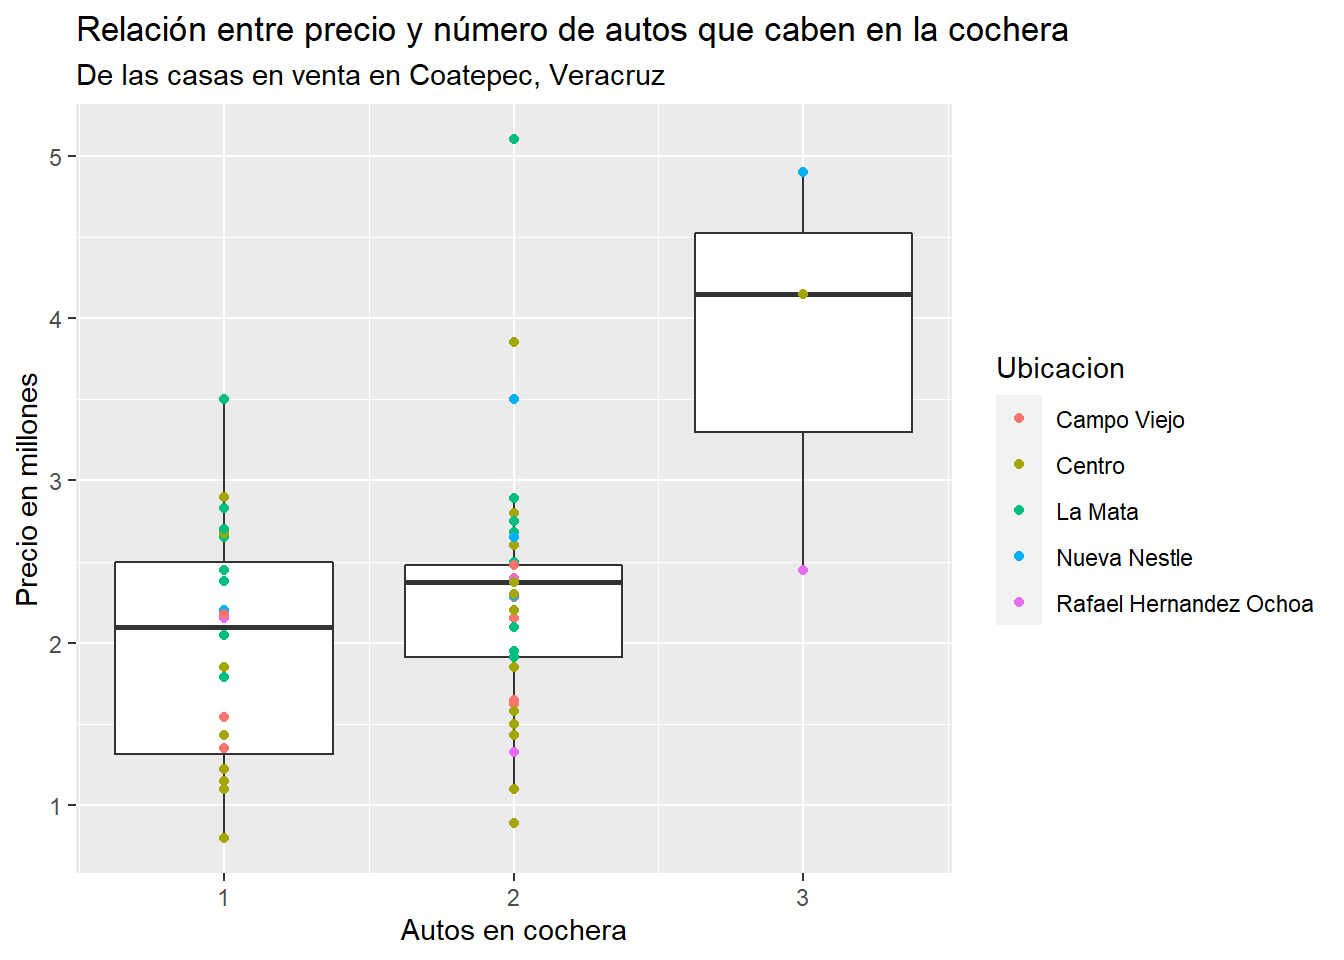
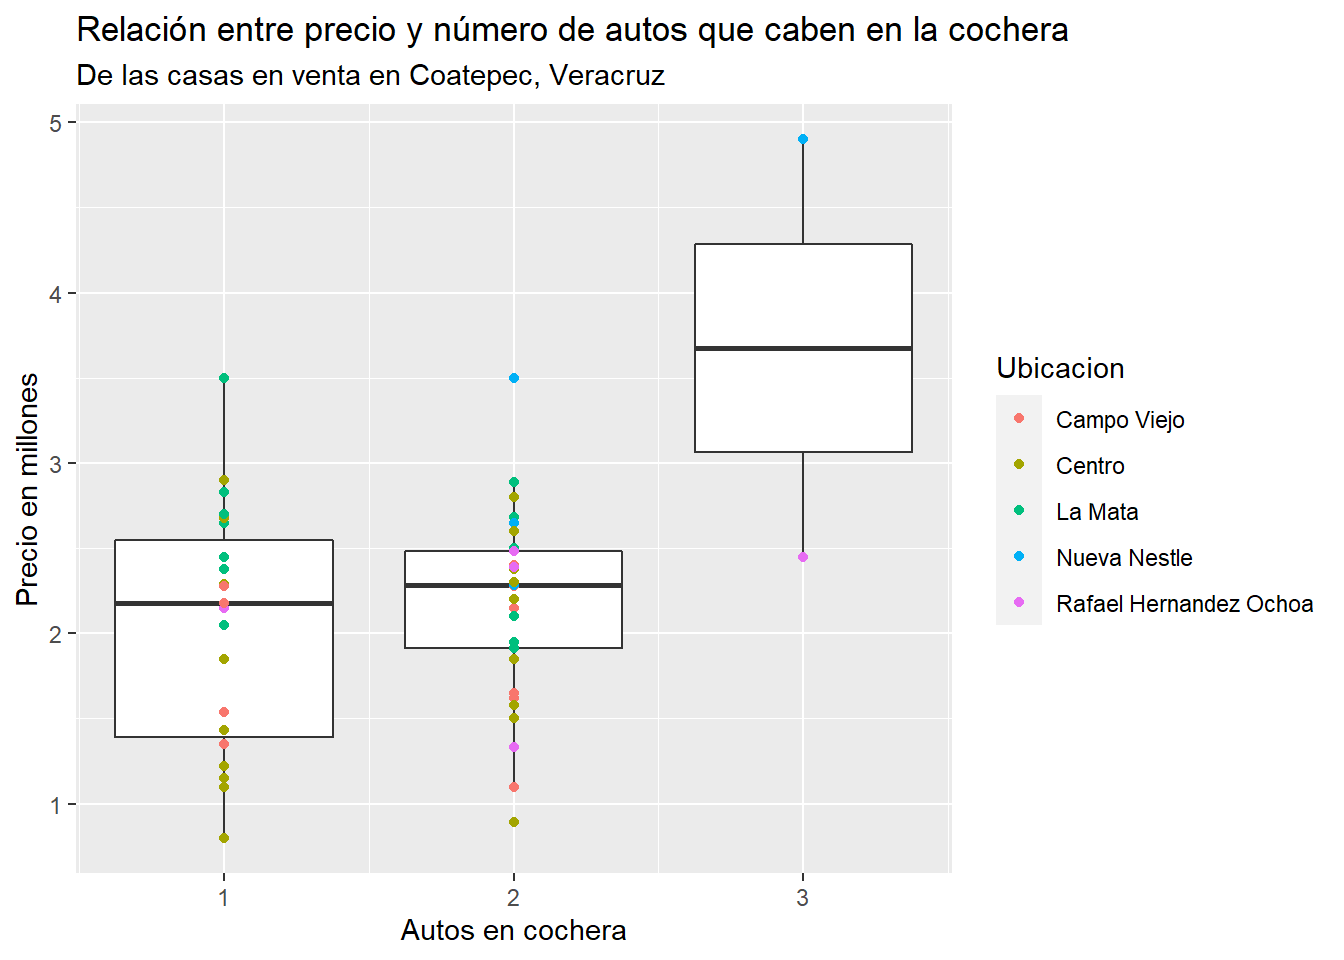
Añadiendo aplicación web (R shiny)

diff --git a/content/blog/2022-07-15-qu-determina-el-precio-de-venta-de-las-casas-en-coatepec-veracruz/index.html b/content/blog/2022-07-15-qu-determina-el-precio-de-venta-de-las-casas-en-coatepec-veracruz/index.html
@@ -28,25 +28,27 @@ tags:
   - modelo
   - regresión
   - lineal
-  - econometría
+  - shiny
   - econometrics
   - realestate
 meta_img: images/image.png
 description: Description for the page
+runtime: shiny
+output: blogdown::html_document
 ---
 
 
 
-<div id="pregunta" class="section level2">
+<div id="section-pregunta" class="section level2">
 <h2>Pregunta</h2>
 <p>Durante la última década, la ciudad de Coatepec ha experimentado un crecimiento acelerado. Frecuentemente, los ciudadanos encontramos nuevos fraccionamientos en el municipio y un aumento agresivo en los precios de los bienes inmuebles. Por otra parte, lo créditos hipotecarios otorgados a los trabajadores por las instituciones públicas de seguridad social no siempre son suficientes para adquirir un hogar en dicho mercado.</p>
 <p>Esto me llevó a plantearme la siguiente pregunta, <strong>¿qué factores determinan el precio de una casa en el municipio de Coatepec, Veracruz?</strong></p>
 </div>
-<div id="importación-limpieza-y-organización-de-datos" class="section level2">
+<div id="section-importación-limpieza-y-organización-de-datos" class="section level2">
 <h2>Importación, limpieza y organización de datos</h2>
 <p>Dado que no encontré una base de datos con la información de las ventas realizadas en el municipio, realicé este análisis con los datos de los inmuebles que actualmente se encuentran en el mercado. Para este fin, miné (extraje) información del sitio web <a href="https://www.vivanuncios.com.mx/s-casas-en-venta/coatepec-ver/page-1/v1c1293l12120p2?pr=0,&amp;ba=10&amp;be=1&amp;pa=grage&amp;si=105,">Viva Anuncios</a> usando el paquete Rvest y limpié los datos. Para reducir el enfoque del análisis consideré aquellas ofertas de <strong>casas en el municipio de Coatepec, Veracruz que tuvieran información completa</strong> (recámaras, baños, cochera, superficie del terreno y ubicación) que se encontraran en las 6 colonias o fraccionamientos más frecuentes.</p>
 <p>El resultado del proceso fue un conjunto de 68 casas con diferentes características.</p>
-<pre class="r"><code>map_df(1:7, function(i) {
+<pre class="r"><code>map_df(1:19, function(i) {
   
   # Progress indicator
   print(i)
@@ -58,44 +60,23 @@ description: Description for the page
   recamaras &lt;- read_html(page) %&gt;% html_nodes(&quot;.re-bedroom&quot;) %&gt;% html_text() %&gt;%.[-1]
   banos &lt;- read_html(page) %&gt;% html_nodes(&quot;.re-bathroom&quot;) %&gt;% html_text() 
   autos &lt;- read_html(page) %&gt;% html_nodes(&quot;.car-parking&quot;) %&gt;% html_text() 
-  superficie &lt;- read_html(page) %&gt;% html_nodes(&quot;.surface-area&quot;) %&gt;% html_text() %&gt;% .[-1]
-  ubi &lt;- read_html(page) %&gt;% html_nodes(&quot;#tileRedesign b&quot;) %&gt;% html_text() %&gt;% .[-1] 
+  superficie &lt;- read_html(page) %&gt;% html_nodes(&quot;.chiplets-inline-block:nth-child(8)&quot;) %&gt;% html_text() 
+  ubi &lt;- read_html(page) %&gt;% html_nodes(&quot;#srpContent b&quot;) %&gt;% html_text() %&gt;% .[-1] 
   desc &lt;- read_html(page) %&gt;% html_nodes(&quot;.tile-title-text&quot;) %&gt;% html_text() %&gt;% .[-1] 
   
   #binding resulting dataframes
   data.frame(precio, recamaras, banos, autos, superficie, ubi, desc)
 
   #Assigning to an object
-}) -&gt; casas_1</code></pre>
+}) -&gt; casas</code></pre>
 <pre><code>## [1] 1
 ## [1] 2
 ## [1] 3
 ## [1] 4
 ## [1] 5
 ## [1] 6
-## [1] 7</code></pre>
-<pre class="r"><code>map_df(8:19, function(i) {
-  
-  # Progress indicator
-  print(i)
-  
-  #String for consecutive pages
-  page = paste0(&quot;https://www.vivanuncios.com.mx/s-casas-en-venta/coatepec-ver/page-&quot;, i, &quot;/v1c1293l12120p&quot;, i,&quot;?pr=0,&amp;ba=10&amp;be=1&amp;pa=grage&amp;si=105,&quot;)
-  
-  precio &lt;- read_html(page) %&gt;% html_nodes(&quot;.ad-price&quot;) %&gt;% html_text() %&gt;%.[-1]
-  recamaras &lt;- read_html(page) %&gt;% html_nodes(&quot;.re-bedroom&quot;) %&gt;% html_text() %&gt;%.[-1]
-  banos &lt;- read_html(page) %&gt;% html_nodes(&quot;.re-bathroom&quot;) %&gt;% html_text() 
-  autos &lt;- read_html(page) %&gt;% html_nodes(&quot;.car-parking&quot;) %&gt;% html_text() 
-  superficie &lt;- read_html(page) %&gt;% html_nodes(&quot;.surface-areaV2&quot;) %&gt;% html_text()
-  ubi &lt;- read_html(page) %&gt;% html_nodes(&quot;#suggestedAds b&quot;) %&gt;% html_text()
-  desc &lt;- read_html(page) %&gt;% html_nodes(&quot;.tile-title-text&quot;) %&gt;% html_text() %&gt;% .[-1] 
-  
-  #binding resulting dataframes
-  data.frame(precio, recamaras, banos, autos, superficie, ubi, desc)
-  
-  #Assigning to an object
-}) -&gt; casas_2</code></pre>
-<pre><code>## [1] 8
+## [1] 7
+## [1] 8
 ## [1] 9
 ## [1] 10
 ## [1] 11
@@ -107,10 +88,7 @@ description: Description for the page
 ## [1] 17
 ## [1] 18
 ## [1] 19</code></pre>
-<pre class="r"><code>#binding both data frames together
-casas &lt;- rbind(casas_1, casas_2) 
-
-#Assigning columns names
+<pre class="r"><code>#Assigning columns names
 colnames(casas) &lt;- c(&quot;Precio&quot;, &quot;Recamaras&quot;, &quot;Banos&quot;, &quot;Cochera&quot;, &quot;Superficie&quot;, &quot;Ubicacion&quot;, &quot;Descripcion&quot;)
 
 #Wrangling and cleaning the data
@@ -137,10 +115,10 @@ casas &lt;- casas %&gt;%
          Superficie = as.numeric(Superficie)) %&gt;%
   filter(Superficie &lt; 500)</code></pre>
 </div>
-<div id="análisis-de-los-datos" class="section level2">
+<div id="section-análisis-de-los-datos" class="section level2">
 <h2>Análisis de los datos</h2>
 <p>Las variables obtenidas del sitio web minado son <strong>precio, número de recámaras, número de baños, espacios para auto en la cochera, superficie del terreno y ubicación</strong>. En los siguientes párrafos exploraremos como se comportan estas variables y como se relacionan entre sí. Finalmente, construiré un modelo de regresión lineal múltiple que sirva para predecir o establecer el precio de venta de una casa en Coatepec, Veracruz.</p>
-<div id="precio-y-número-de-recámaras" class="section level3">
+<div id="section-precio-y-número-de-recámaras" class="section level3">
 <h3>Precio y número de recámaras</h3>
 <p>Como se muestra en la primera figura, el precio de las casas incrementa cuando aumenta el número de recámaras que éstas tienen. También podemos notar que el número de recámaras más frecuente en el municipio es 3.</p>
 <pre class="r"><code>#Visualizing relation between price and number of bedrooms
@@ -155,7 +133,7 @@ casas %&gt;% ggplot(aes(Recamaras, Precio, group = Recamaras)) +
 <p><img src="{{< blogdown/postref >}}index_files/figure-html/price-bedrooms-1.png" width="672" /></p>
 <p>Esto nos muestra una clara correlación positiva entre la variable precio y la variable recámaras.</p>
 </div>
-<div id="precio-y-número-de-baños" class="section level3">
+<div id="section-precio-y-número-de-baños" class="section level3">
 <h3>Precio y número de baños</h3>
 <p>La segunda figura nos muestra que también el número de baños suele incrementar el precio de una casa en venta y que el número de baños más frecuente es 3.</p>
 <pre class="r"><code>#Visualizing relation between price and number of bathrooms
@@ -169,7 +147,7 @@ casas %&gt;% ggplot(aes(Banos, Precio, group = Banos)) +
 <p><img src="{{< blogdown/postref >}}index_files/figure-html/price-bathrooms-1.png" width="672" />
 Esto nos muestra una clara correlación positiva entre la variable precio y la variable baños.</p>
 </div>
-<div id="precio-y-espacios-en-la-cochera" class="section level3">
+<div id="section-precio-y-espacios-en-la-cochera" class="section level3">
 <h3>Precio y espacios en la cochera</h3>
 <p>Al parecer, como se ve en la siguiente figura, el número de espacios en la cochera no impacta significativamente en el precio de las casas. Probablemente sea un factor que los compradores valoren poco o que los vendedores subestimen.</p>
 <pre class="r"><code>#Visualizing relation between price and number of cars space in garage
@@ -183,7 +161,7 @@ casas %&gt;% ggplot(aes(Cochera, Precio, group = Cochera)) +
 <p><img src="{{< blogdown/postref >}}index_files/figure-html/price-garage-1.png" width="672" /></p>
 <p>Esto nos muestra que aunque hay una correlación positiva entre las variables, esta es muy débil.</p>
 </div>
-<div id="precio-y-superficie-del-terreno." class="section level3">
+<div id="section-precio-y-superficie-del-terreno." class="section level3">
 <h3>Precio y superficie del terreno.</h3>
 <p>Según nos muestra la siguiente figura, la superficie del terreno en que la casa está construida impacta positivamente en su precio. Es decir, más terreno = más dinero.</p>
 <pre class="r"><code>#Visualizing relation between price and land area
@@ -199,7 +177,7 @@ casas %&gt;%
 <p><img src="{{< blogdown/postref >}}index_files/figure-html/price-land-1.png" width="672" /></p>
 <p>Esto nos muestra una correlación positiva, aunque no muy fuerte.</p>
 </div>
-<div id="precio-y-ubicación" class="section level3">
+<div id="section-precio-y-ubicación" class="section level3">
 <h3>Precio y ubicación</h3>
 <p>¿Qué tanto importa dónde se ubica la casa? Location, location, location…</p>
 <p>En este caso, importa. Aunque no son diferencias abismales, el gráfico de caja muestra como varían los precios entre las diferentes colonias.</p>
@@ -214,7 +192,7 @@ casas %&gt;% ggplot(aes(Ubicacion, Precio, group = Ubicacion)) +
 <p><img src="{{< blogdown/postref >}}index_files/figure-html/unnamed-chunk-1-1.png" width="672" />
 Esto sugiere una correlación entre precio y ubicación. Como la ubicación es una variable categórica, haremos un truquillo más adelante para poder integrarla en el modelo.</p>
 </div>
-<div id="precio-y-todo-lo-demás" class="section level3">
+<div id="section-precio-y-todo-lo-demás" class="section level3">
 <h3>Precio y todo lo demás</h3>
 <p>En esta figura podemos ver como se relaciona el precio (eje Y) con el número de recámaras (tamaño del punto), la ubicación (color del punto) y la superficie del terreno (eje X). Parece ser que el patrón más claro es que mientras más grande es el punto, más arriba está.</p>
 <pre class="r"><code>casas %&gt;%
@@ -227,7 +205,7 @@ Esto sugiere una correlación entre precio y ubicación. Como la ubicación es u
 <p><img src="{{< blogdown/postref >}}index_files/figure-html/unnamed-chunk-2-1.png" width="672" />
 Esto sugiere que la variable número de recámaras es la que está más relacionada con el precio y quizás la qu más influya en este ¿será cierto?</p>
 </div>
-<div id="correlación-entre-variables" class="section level3">
+<div id="section-correlación-entre-variables" class="section level3">
 <h3>Correlación entre variables</h3>
 <p>Esta figura nos muestra la correlación entre las variables. Como ya lo sospechábamos el número de recámaras es la variable más relacionada al precio, seguida del número de baños y la superficie en tercer lugar.</p>
 <pre class="r"><code>#Variable Dummy para Ubicación del 0 al 5 en orden de precio promedio
@@ -238,9 +216,9 @@ casas %&gt;%
 <pre><code>## # A tibble: 5 x 2
 ##   Ubicacion              `Precio promedio`
 ##   &lt;chr&gt;                              &lt;dbl&gt;
-## 1 Campo Viejo                         2.11
-## 2 Centro                              1.95
-## 3 La Mata                             2.59
+## 1 Campo Viejo                         2.00
+## 2 Centro                              1.85
+## 3 La Mata                             2.47
 ## 4 Nueva Nestle                        3.11
 ## 5 Rafael Hernandez Ochoa              2.20</code></pre>
 <pre class="r"><code>casas_dummy &lt;- casas %&gt;%
@@ -262,7 +240,7 @@ ggcorrplot(cor1)</code></pre>
 <p>Pero, ¿serán estas las mejores variables para predecir o establecer un buen precio de venta?</p>
 </div>
 </div>
-<div id="modelo-para-predecir-precio" class="section level2">
+<div id="section-modelo-para-predecir-precio" class="section level2">
 <h2>Modelo para predecir precio</h2>
 <p>La siguiente figura nos ayudará a elegir cuáles son las variables que mejor nos ayudarían a predecir el precio de una casa en Coatepec, Veracruz. Aparentemente, la r^2 ajustada más alta (mejor ajuste de modelo) la obtendríamos considerando las variables independientes: recámaras, baños, superficie y ubicación.</p>
 <pre class="r"><code>#Selecting best regressors for a lineal model
@@ -276,15 +254,15 @@ summary.out &lt;- summary(regsubsets1)
 
 as.data.frame(summary.out$outmat)</code></pre>
 <pre><code>##          Recamaras Banos Cochera Superficie Ubi_Dummy
-## 1  ( 1 )         *                                   
-## 2  ( 1 )         *     *                             
-## 3  ( 1 )         *     *       *                     
-## 4  ( 1 )         *     *       *                    *
+## 1  ( 1 )                                  *          
+## 2  ( 1 )         *                        *          
+## 3  ( 1 )         *                        *         *
+## 4  ( 1 )         *     *                  *         *
 ## 5  ( 1 )         *     *       *          *         *</code></pre>
 <pre class="r"><code>plot(regsubsets1, scale = &quot;adjr2&quot;, main = &quot;R^2 ajustada&quot;)</code></pre>
 <p><img src="{{< blogdown/postref >}}index_files/figure-html/regressors-1.png" width="672" /></p>
 <pre class="r"><code>which.max(summary.out$adjr2)</code></pre>
-<pre><code>## [1] 5</code></pre>
+<pre><code>## [1] 4</code></pre>
 <p>Construyendo el modelo, conseguiríamos los coeficientes que se muestran en la tabla.</p>
 <pre class="r"><code>#Linear regression model
 summary(lm(Precio ~ Recamaras + Banos + Superficie + Ubi_Dummy, data = casas_dummy))</code></pre>
@@ -295,21 +273,21 @@ summary(lm(Precio ~ Recamaras + Banos + Superficie + Ubi_Dummy, data = casas_dum
 ## 
 ## Residuals:
 ##      Min       1Q   Median       3Q      Max 
-## -1.25354 -0.26339  0.00719  0.28776  1.46870 
+## -1.17899 -0.30134 -0.00802  0.27377  1.46373 
 ## 
 ## Coefficients:
 ##              Estimate Std. Error t value Pr(&gt;|t|)    
-## (Intercept) -1.403966   0.475295  -2.954  0.00441 ** 
-## Recamaras    0.627479   0.145708   4.306 5.92e-05 ***
-## Banos        0.302622   0.106274   2.848  0.00594 ** 
-## Superficie   0.004562   0.002050   2.226  0.02962 *  
-## Ubi_Dummy    0.144849   0.061630   2.350  0.02190 *  
+## (Intercept) -0.709943   0.416634  -1.704 0.094026 .  
+## Recamaras    0.372434   0.129634   2.873 0.005768 ** 
+## Banos        0.199541   0.097805   2.040 0.046145 *  
+## Superficie   0.006947   0.001952   3.560 0.000774 ***
+## Ubi_Dummy    0.130162   0.053758   2.421 0.018793 *  
 ## ---
 ## Signif. codes:  0 &#39;***&#39; 0.001 &#39;**&#39; 0.01 &#39;*&#39; 0.05 &#39;.&#39; 0.1 &#39; &#39; 1
 ## 
-## Residual standard error: 0.5864 on 63 degrees of freedom
-## Multiple R-squared:  0.5239, Adjusted R-squared:  0.4936 
-## F-statistic: 17.33 on 4 and 63 DF,  p-value: 1.235e-09</code></pre>
+## Residual standard error: 0.5009 on 55 degrees of freedom
+## Multiple R-squared:  0.5137, Adjusted R-squared:  0.4783 
+## F-statistic: 14.52 on 4 and 55 DF,  p-value: 3.714e-08</code></pre>
 <pre class="r"><code>modelo &lt;- lm(Precio ~ Recamaras + Banos + Superficie + Ubi_Dummy, data = casas_dummy)
 
 coef &lt;- summary(modelo)$coefficients %&gt;% as.data.frame()
@@ -330,42 +308,45 @@ knitr::kable(coef,
 <tbody>
 <tr class="odd">
 <td align="left">(Intercept)</td>
-<td align="right">-1.4039659</td>
-<td align="right">0.4752949</td>
-<td align="right">-2.953884</td>
-<td align="right">0.0044073</td>
+<td align="right">-0.7099426</td>
+<td align="right">0.4166338</td>
+<td align="right">-1.703997</td>
+<td align="right">0.0940260</td>
 </tr>
 <tr class="even">
 <td align="left">Recamaras</td>
-<td align="right">0.6274787</td>
-<td align="right">0.1457082</td>
-<td align="right">4.306405</td>
-<td align="right">0.0000592</td>
+<td align="right">0.3724341</td>
+<td align="right">0.1296345</td>
+<td align="right">2.872956</td>
+<td align="right">0.0057676</td>
 </tr>
 <tr class="odd">
 <td align="left">Banos</td>
-<td align="right">0.3026220</td>
-<td align="right">0.1062736</td>
-<td align="right">2.847573</td>
-<td align="right">0.0059413</td>
+<td align="right">0.1995414</td>
+<td align="right">0.0978053</td>
+<td align="right">2.040190</td>
+<td align="right">0.0461447</td>
 </tr>
 <tr class="even">
 <td align="left">Superficie</td>
-<td align="right">0.0045624</td>
-<td align="right">0.0020499</td>
-<td align="right">2.225648</td>
-<td align="right">0.0296244</td>
+<td align="right">0.0069474</td>
+<td align="right">0.0019516</td>
+<td align="right">3.559773</td>
+<td align="right">0.0007741</td>
 </tr>
 <tr class="odd">
 <td align="left">Ubi_Dummy</td>
-<td align="right">0.1448490</td>
-<td align="right">0.0616299</td>
-<td align="right">2.350302</td>
-<td align="right">0.0219030</td>
+<td align="right">0.1301620</td>
+<td align="right">0.0537580</td>
+<td align="right">2.421260</td>
+<td align="right">0.0187934</td>
 </tr>
 </tbody>
 </table>
 <p>En conclusión, para predecir o determinar el precio de venta de una casa en Coatepec, Veracruz anunciada en Viva Anuncios usaríamos la siguiente ecuación.</p>
 <p><em>Precio = -0.903748 + 0.612049(Recámaras) + 0.261302(Baños) + 0.002974(Superficie) + 0.0704(Ubicación)</em></p>
+<p>Para comprender mejor el modelo que resulta de este trabajo, desarrollé una aplicación web con R shiny (mi primera) que permite al usuario calcular fácilmente el precio de venta sugerido para anunciar su casa en Viva Anuncios.</p>
+<iframe height="800" width="100%" frameborder="no" src="https://sergiolopezolvera.shinyapps.io/precio_coatepec/">
+</iframe>
 <p>En caso de que les interese ahondar más en este tema, coméntenlo y lo hacemos con gusto. Todos los comentarios, sugerencias o ideas son bien recibidos.</p>
 </div>
